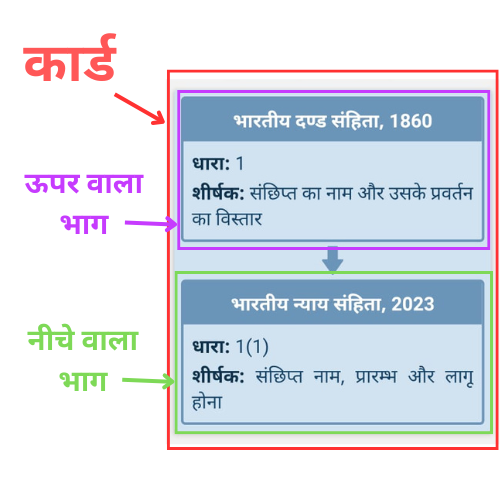
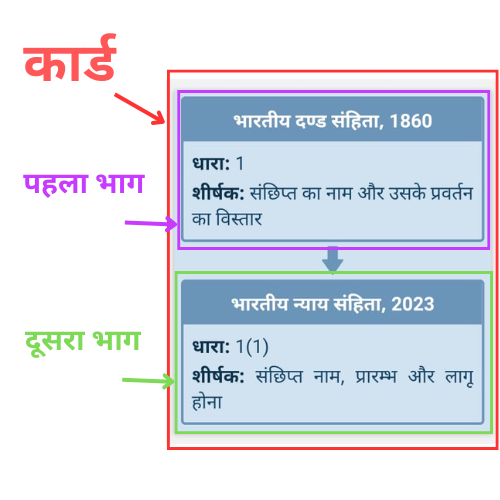
refactor: update howTo data of nayaeSanhita

Changed region(s): [[0.03, 0.63, 0.3, 0.78], [0.03, 0.33, 0.3, 0.39], [0.12, 0.42, 0.21, 0.48]]

diff --git a/data/nyayaSanhita/howToUse.js b/data/nyayaSanhita/howToUse.js
@@ -4,7 +4,7 @@ export const howToUseNyayaSanhitaData = [
     imgUr: require("../../assets/images/nyayaSanhitaHowToImage_1.png"),
     title: "भारतीय न्याय संहिता 2023 की स्क्रीन पर उपस्थित कार्ड्स का विवरण!",
     content:
-      'भारतीय न्याय संहिता 2023 की स्क्रीन पर आप दोनों कानूनों की सभी धाराएँ दर्शाने वाले कार्ड्स को देख सकते हैं, और अधिक धाराओं को दर्शाने वाले कार्ड्स देखने के लिए आप स्क्रीन को नीचे स्क्रॉल कर सकते हैं। स्क्रीन पर विभिन्न रंगों के कार्ड दिखाई देंगे, जिनमें प्रत्येक कार्ड "भारतीय दंड संहिता, 1860" और भारतीय न्याय संहिता 2023 से संबंधित जानकारी को दर्शाता है। प्रत्येक कार्ड के दो भाग हैं – ऊपर वाला भाग "भारतीय दंड संहिता, 1860" को दर्शाता है, और नीचे वाला भाग "भारतीय न्याय संहिता 2023" की जानकारी प्रदान करता है। आप इसे नीचे दी गई छवि से बेहतर समझ सकते हैं।',
+      'भारतीय न्याय संहिता 2023 की स्क्रीन पर आप दोनों कानूनों की सभी धाराएँ दर्शाने वाले कार्ड्स को देख सकते हैं, और अधिक धाराओं को दर्शाने वाले कार्ड्स देखने के लिए आप स्क्रीन को नीचे स्क्रॉल कर सकते हैं। स्क्रीन पर विभिन्न रंगों के कार्ड दिखाई देंगे, जिनमें प्रत्येक कार्ड "भारतीय दंड संहिता, 1860" और भारतीय न्याय संहिता 2023 से संबंधित जानकारी को दर्शाता है। प्रत्येक कार्ड के दो भाग हैं – पहला भाग "भारतीय दंड संहिता, 1860" को दर्शाता है, और दूसरा भाग "भारतीय न्याय संहिता 2023" की जानकारी प्रदान करता है। आप इसे नीचे दी गई छवि से बेहतर समझ सकते हैं।',
   },
   {
     id: 2,
@@ -30,6 +30,14 @@ export const howToUseNyayaSanhitaData = [
   {
     id: 5,
     imgUr: require("../../assets/images/nyayaSanhitaHowToImage_5.png"),
+    title:
+      "जब उपयोगकर्ता दूसरा विकल्प चुनते हैं, तो इसके बाद जो प्रक्रिया होती है!",
+    content:
+      "जब उपयोगकर्ता दूसरा विकल्प चुनते हैं, तो वह केवल नए धारा को सर्च कर सकते हैं और उसे सर्च बॉक्स में डालकर उसके संबंधित जानकारी प्राप्त कर सकते हैं, और इसके बाद कार्ड केवल नए धारा की जानकारी ही दिखाएगा। आप इसे नीचे दी गई छवि से बेहतर समझ सकते हैं।",
+  },
+  {
+    id: 6,
+    imgUr: require("../../assets/images/nyayaSanhitaHowToImage_6.png"),
     title: "सर्च बॉक्स में गलत धारा दर्ज करने पर त्रुटि संदेश!",
     content:
       "यदि उपयोगकर्ता सर्च बॉक्स में गलत धारा दर्ज करता है, तो उसे एक त्रुटि संदेश द्वारा सूचित किया जाएगा कि दर्ज की गई धारा गलत है और कृपया सही धारा दर्ज करें। यह संदेश उपयोगकर्ता को यह सुनिश्चित करने में मदद करेगा कि वह सही जानकारी प्राप्त करने के लिए सर्च बॉक्स में मान्य धारा ही दर्ज करे। आप इसे नीचे दी गई छवि से बेहतर समझ सकते हैं।",
